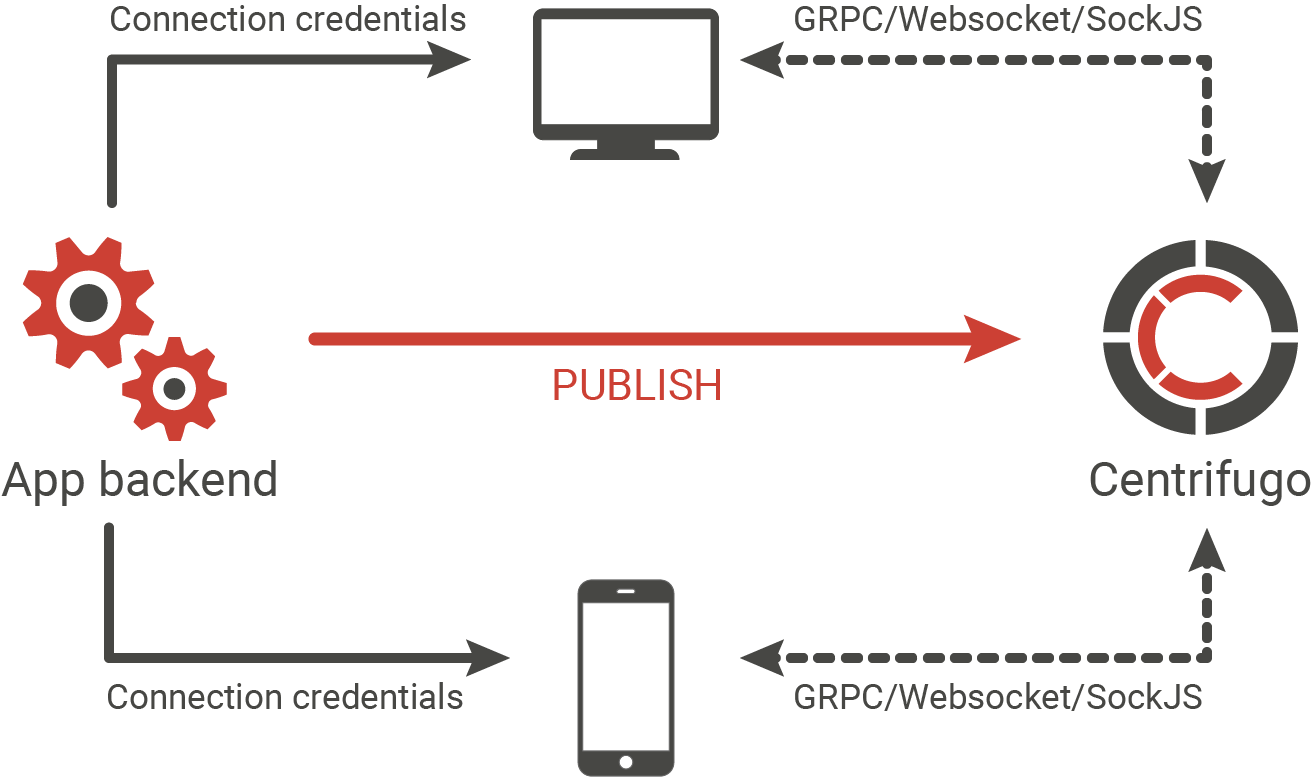
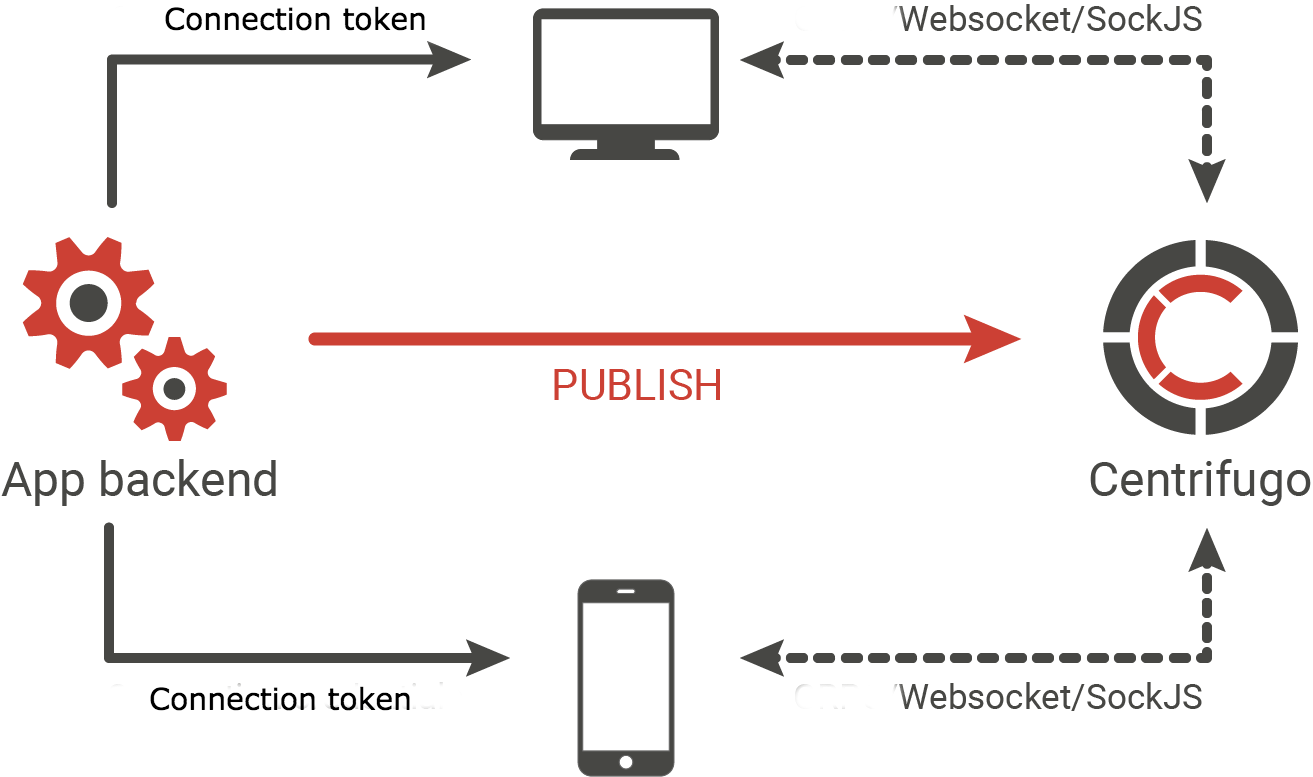
update docs

diff --git a/docs/content/server/authentication.md b/docs/content/server/authentication.md
@@ -72,7 +72,7 @@ Token that will be valid for 5 minutes:
 import jwt
 import time
 
-token = jwt.encode({"user": "42", "exp": int(time.time()) + 5*60}, "secret").decode()
+token = jwt.encode({"user": "42", "exp": int(time.time()) + 5*60}, "secret", algorithm="HS256").decode()
 
 print(token)
 ```
@@ -82,7 +82,7 @@ print(token)
 ```python
 import jwt
 
-token = jwt.encode({"user": "42", "info": {"name": "Alexander Emelin"}}, "secret").decode()
+token = jwt.encode({"user": "42", "info": {"name": "Alexander Emelin"}}, "secret", algorithm="HS256").decode()
 
 print(token)
 ```

diff --git a/docs/content/server/private_channels.md b/docs/content/server/private_channels.md
@@ -35,9 +35,9 @@ So to generate subscription token you can use smth like this in Python (assuming
 ```python
 import jwt
 
-token = jwt.encode({"client": "XXX", "channel": "gossips"}, "secret").decode()
+token = jwt.encode({"client": "XXX", "channel": "$gossips"}, "secret", algorithm="HS256").decode()
 
 print(token)
 ```
 
-Again - the same `secret` from Centrifugo configuration is used to generate JWT.
+Again - the same `secret` from Centrifugo configuration is used to generate JWT. And as with connection JWT only `HS256` algorithm is supported at moment.

diff --git a/docs/content/transports/websocket.md b/docs/content/transports/websocket.md
@@ -1,3 +1,5 @@
 # Websocket
 
-In progress.
+https://en.wikipedia.org/wiki/WebSocket
+
+This chapter is work in progress.

diff --git a/docs/content/transports/sockjs.md b/docs/content/transports/sockjs.md
@@ -1,3 +1,5 @@
 # SockJS
 
-In progress.
+https://github.com/sockjs/sockjs-client
+
+This chapter is work in progress.
